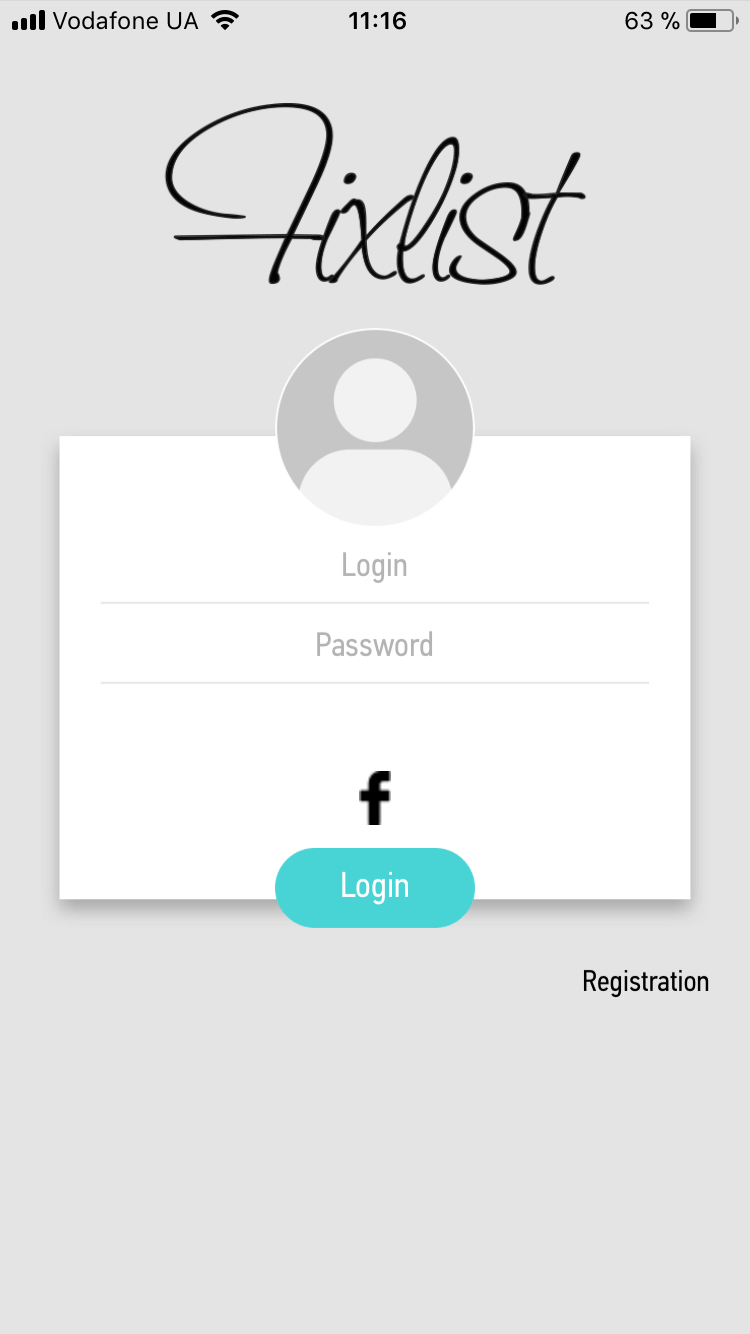
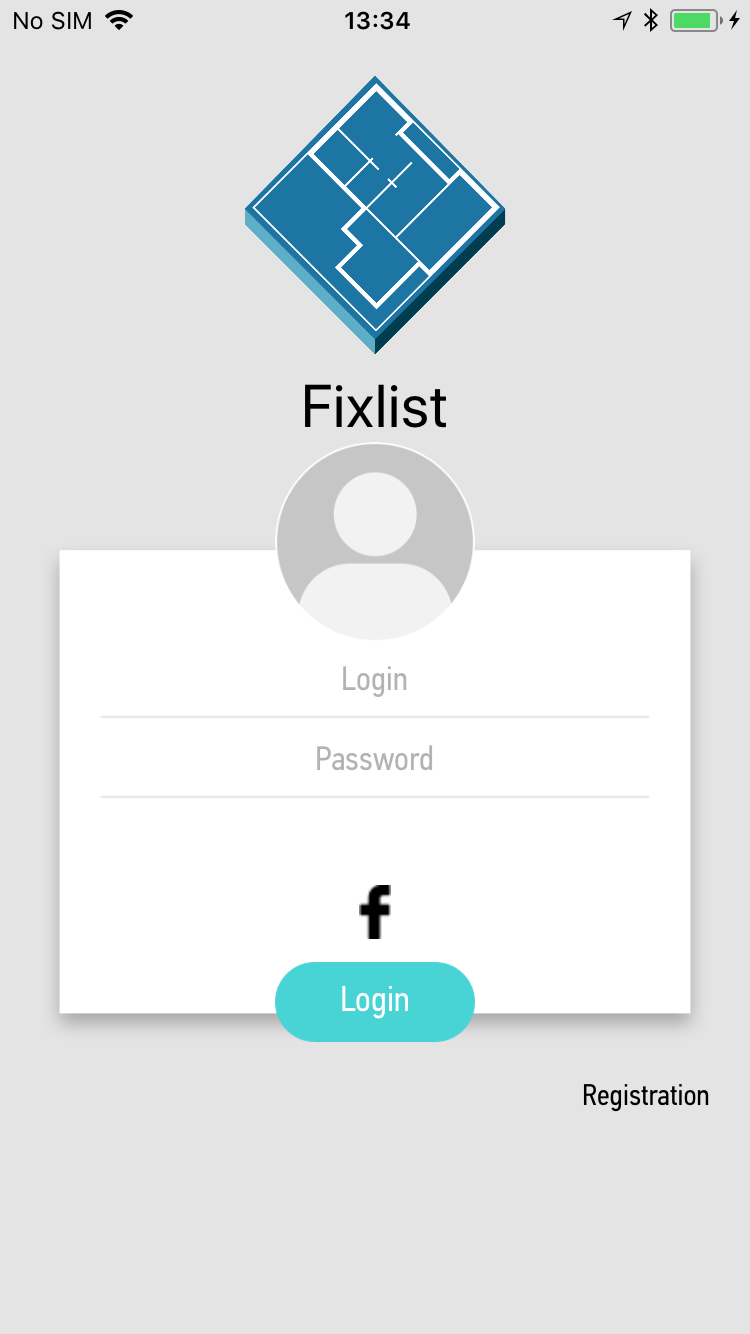
user help almost ready

diff --git a/src/articles/inspo.htm b/src/articles/inspo.htm
@@ -1,9 +1,34 @@
-@@include('../assets/partials/header.html', { "productTitle":"FixList", "title":"Inspo" })
+@@include('../assets/partials/header.html', { "productTitle":"Fixlist", "title":"Inspo" })
 
 
 
 <div class="article__content">
-    Get inspired from Inspo
+    <p>Usually, when we are going to fix something, we discuss the fixing process, the desired result, materials, etc. And,
+        sometimes, we are stuck and lack of fantasy, so we need inspiration or an advice. Fixlist will take care of this
+        - it provides a special unrivalled feature: the
+        <b>Inspo</b>.</p>
+    <p>At the bottom panel tap the
+        <img src="../assets/images/icons/inspo-btn.png" alt="Inspo" class="icon l"> button:</p>
+    <p class="center">
+
+        <a href="../assets/images/screenshots/IMG_12014.png" data-fancybox="screenshots" data-caption="Inspo - Tap Inspo tab">
+            <img src="../assets/images/screenshots/IMG_12014.png" alt="" class="screen inline">
+        </a>
+    </p>
+    <p>You will get to the
+        <b>Inspo</b> page. The page shows products from various manufacturers and online-stores. Every product is represented
+        by its photo, name and short description. If you tap a product's photo, the browser on your device will open the
+        corresponding web-page. There you can learn more about its price, attributes, etc. </p>
+    <h2>What's so special?</h2>
+
+    <p class="note">The Inspo list is based on your fixlists info. It searches the Internet for relevant goods only. Unlike commercials in
+        other apps or on the web, Inspo gently gathers information about your fixlists, categorizes it and provides you with
+        what you might be looking for. </p>
+    <p class="center">
+        <a href="../assets/images/screenshots/IMG_1221.png" data-fancybox="screenshots" data-caption="Inspo - Get inspired by relevant suggestions">
+            <img src="../assets/images/screenshots/IMG_1221.png" alt="" class="screen inline">
+        </a>
+    </p>
 </div>
 
 

diff --git a/src/assets/sass/_article.scss b/src/assets/sass/_article.scss
@@ -33,18 +33,27 @@ span.link {
     color: #000;
 }
 
-[data-fancybox] {
+a[data-fancybox] {
     outline:none;
     img {
-        transition:all .3s ease-in-out;
+        transition:all .15s ease-in-out;
         position: relative;
-        top: 0;
     }
     &:hover{
         img {
-            box-shadow: 0 2px 6px -1px rgba(0, 0, 0, 0.25);
-            top: 2px
+            box-shadow: 0px 14px 14px -7px rgba(0, 0, 0, 0.35);
+            top:0;
         }
+    }
+    &:active{
+        img {
+            box-shadow: 0 2px 6px -1px rgba(0, 0, 0, 0), 0 0 1px 1px rgba(0, 0, 0, 0.25) inset; 
+            border-bottom-color:#eee;
+            top:2px;
+        }
+    }
+    @media screen and (max-width:667px){
+        pointer-events:none;
     }
 }
 img {
@@ -83,7 +92,8 @@ img {
         border-style: solid;
         border-color: #f0f0f0 #f0f0f0 #ccc;
         border-radius: 2px;
-        box-shadow: 0px 14px 14px -7px rgba(0, 0, 0, 0.35);
+        box-shadow: 0 2px 6px -1px rgba(0, 0, 0, 0.25);
+        top: 2px;
         &.inline {
             display: inline-block;
             font-size: 0;
@@ -101,7 +111,7 @@ img {
 .flowchart {
     margin: 0 -15px;
     text-align: center;
-    background: #1D5B96;
+    background: #f9f9f9;
 }
 
 pre {

diff --git a/src/articles/participants.htm b/src/articles/participants.htm
@@ -1,11 +1,11 @@
-@@include('../assets/partials/header.html', { "productTitle":"FixList", "title":"Add Participants" })
+@@include('../assets/partials/header.html', { "productTitle":"Fixlist", "title":"Add Participants" })
 
 
 
 <div class="article__content">
     <p>Adding participants is similar to the way described in the
         <a href="create-fixlist">Create a Fixlist</a> article. However this in this topic, the entry point is not the newly created list, but the
-        main FixList menu. Follow the steps below:</p>
+        main Fixlist menu. Follow the steps below:</p>
     <ul>
         <li>
             <p>Tap the
@@ -65,7 +65,7 @@
             <ul>
                 <li>
                     <p>Add participants
-                        <b>by the name of an existing FixList user</b>: just type in user's name - if any matches occur, the
+                        <b>by the name of an existing Fixlist user</b>: just type in user's name - if any matches occur, the
                         user will be shown in the autocomplete list below the input field</p>
 
                 </li>

diff --git a/src/articles/login.htm b/src/articles/login.htm
@@ -1,4 +1,4 @@
-@@include('../assets/partials/header.html', { "productTitle":"FixList", "title":"Log In / Sign Up" })
+@@include('../assets/partials/header.html', { "productTitle":"Fixlist", "title":"Log In / Sign Up" })
 
 
 
@@ -7,7 +7,7 @@
         <b>Log in</b> screen appears. Here you can perform one of the following:</p>
     <ul>
         <li>
-            <p>Log in to FixList using your existing account. Provide your Login and Password:</p>
+            <p>Log in to Fixlist using your existing account. Provide your Login and Password:</p>
             <p class="center">
                 <a href="../assets/images/screenshots/IMG_1198.png" data-fancybox="screenshots" data-caption="Log in">
                     <img src="../assets/images/screenshots/IMG_1198.png" alt="" class="screen inline">
@@ -25,7 +25,7 @@
             </p>
         </li>
         <li>
-            <p>Create a new FixList profile: tap
+            <p>Create a new Fixlist profile: tap
                 <b>Registration</b> and provide the following info:</p>
             <ul>
                 <li>

diff --git a/src/articles/create-fixlist.htm b/src/articles/create-fixlist.htm
@@ -1,4 +1,4 @@
-@@include('../assets/partials/header.html', { "productTitle":"FixList", "title":"Create a Fixlist" })
+@@include('../assets/partials/header.html', { "productTitle":"Fixlist", "title":"Create a Fixlist" })
 
 
 
@@ -41,7 +41,7 @@
             <p>To add participants now, perform the following steps:</p>
             <ul>
                 <li>
-                    <p>Add participants <b>by the name of an existing FixList user</b>: just type in user's name - if any matches occur, the user will
+                    <p>Add participants <b>by the name of an existing Fixlist user</b>: just type in user's name - if any matches occur, the user will
                         be shown in the autocomplete list below the input field:</p>
                     <p class="center">
                         <a href="../assets/images/screenshots/IMG_1206.png" data-fancybox="screenshots" data-caption="Add participants to a new fixlist (existing users)">

diff --git a/src/articles/add-photo.htm b/src/articles/add-photo.htm
@@ -1,4 +1,4 @@
-@@include('../assets/partials/header.html', { "productTitle":"FixList", "title":"Add a Photo" })
+@@include('../assets/partials/header.html', { "productTitle":"Fixlist", "title":"Add a Photo" })
 
 
 <div class="article__content">
@@ -161,7 +161,7 @@
                 </li>
         </ul>
         <p class="note">The Photo shortcut menu also allows you to post photos to Facebook - this is not a simple photo post: this provides
-                link to FixList and lets invite people to take part in your fixlist.</p>
+                link to Fixlist and lets invite people to take part in your fixlist.</p>
 
 
 </div>

diff --git a/src/assets/sass/_header.scss b/src/assets/sass/_header.scss
@@ -18,7 +18,7 @@
         vertical-align: middle;
     }
     .product-logo {
-        width: 120px;
+        width: 70px;
         padding: 0 15px 0 0;
 
         img {
@@ -48,7 +48,7 @@
             font-size: 24px;
         }
         .product-logo {
-            width: 50px;
+            width: 40px;
             padding: 0;
             img.l {
                 display: none;
@@ -57,7 +57,6 @@
                 display: block;
                 height:auto;
                 width:auto;
-                max-width:60px;
             }
         }
     }

diff --git a/src/articles/flowchart.htm b/src/articles/flowchart.htm
@@ -1,9 +1,9 @@
-@@include('../assets/partials/header.html', { "productTitle":"FixList", "title":"User Flow Chart" })
+@@include('../assets/partials/header.html', { "productTitle":"Fixlist", "title":"User Flow Chart" })
 
 
 <div class="article__content">
     <div class="flowchart">
-        <img class="chart" src="../assets/images/flowcharts/FixList.svg">
+        <img class="chart" src="../assets/images/flowcharts/Fixlist.svg">
 
     </div>
 </div>

diff --git a/src/assets/script.js b/src/assets/script.js
@@ -1,9 +1,9 @@
 $(function () {
 
     $("[data-fancybox]").fancybox({
-		// Options will go here
+  
     });
-    $("[data-fancybox]").on("mouseup touchend", function(e){
+    $("[data-fancybox]").on("mouseup mousedown click touchstart touchend", function(e){
         if($(window).width() < 768){
             e.preventDefault();
             e.stopPropagation();

diff --git a/src/assets/partials/webHeader.html b/src/assets/partials/webHeader.html
@@ -4,7 +4,7 @@
 <HEAD>
     <meta http-equiv="Content-Type" content="text/html;charset=UTF-8">
     <meta name="viewport" content="width=device-width, initial-scale=1.0">
-    <title>FixList Reference</title>
+    <title>Fixlist Reference</title>
     <link rel="stylesheet" href="assets/style.css">
     <style>
         :focus {

diff --git a/src/articles/api.htm b/src/articles/api.htm
@@ -1,4 +1,4 @@
-@@include('../assets/partials/header.html', { "productTitle":"FixList", "title":"Features" })
+@@include('../assets/partials/header.html', { "productTitle":"Fixlist", "title":"Features" })
 
 <div class="article__content">
     <ul>

diff --git a/src/articles/SendMessage.htm b/src/articles/SendMessage.htm
@@ -1,4 +1,4 @@
-@@include('../assets/partials/header.html', { "productTitle":"FixList", "title":"SendMessage", "type":"api" })
+@@include('../assets/partials/header.html', { "productTitle":"Fixlist", "title":"SendMessage", "type":"api" })
 
 
 
